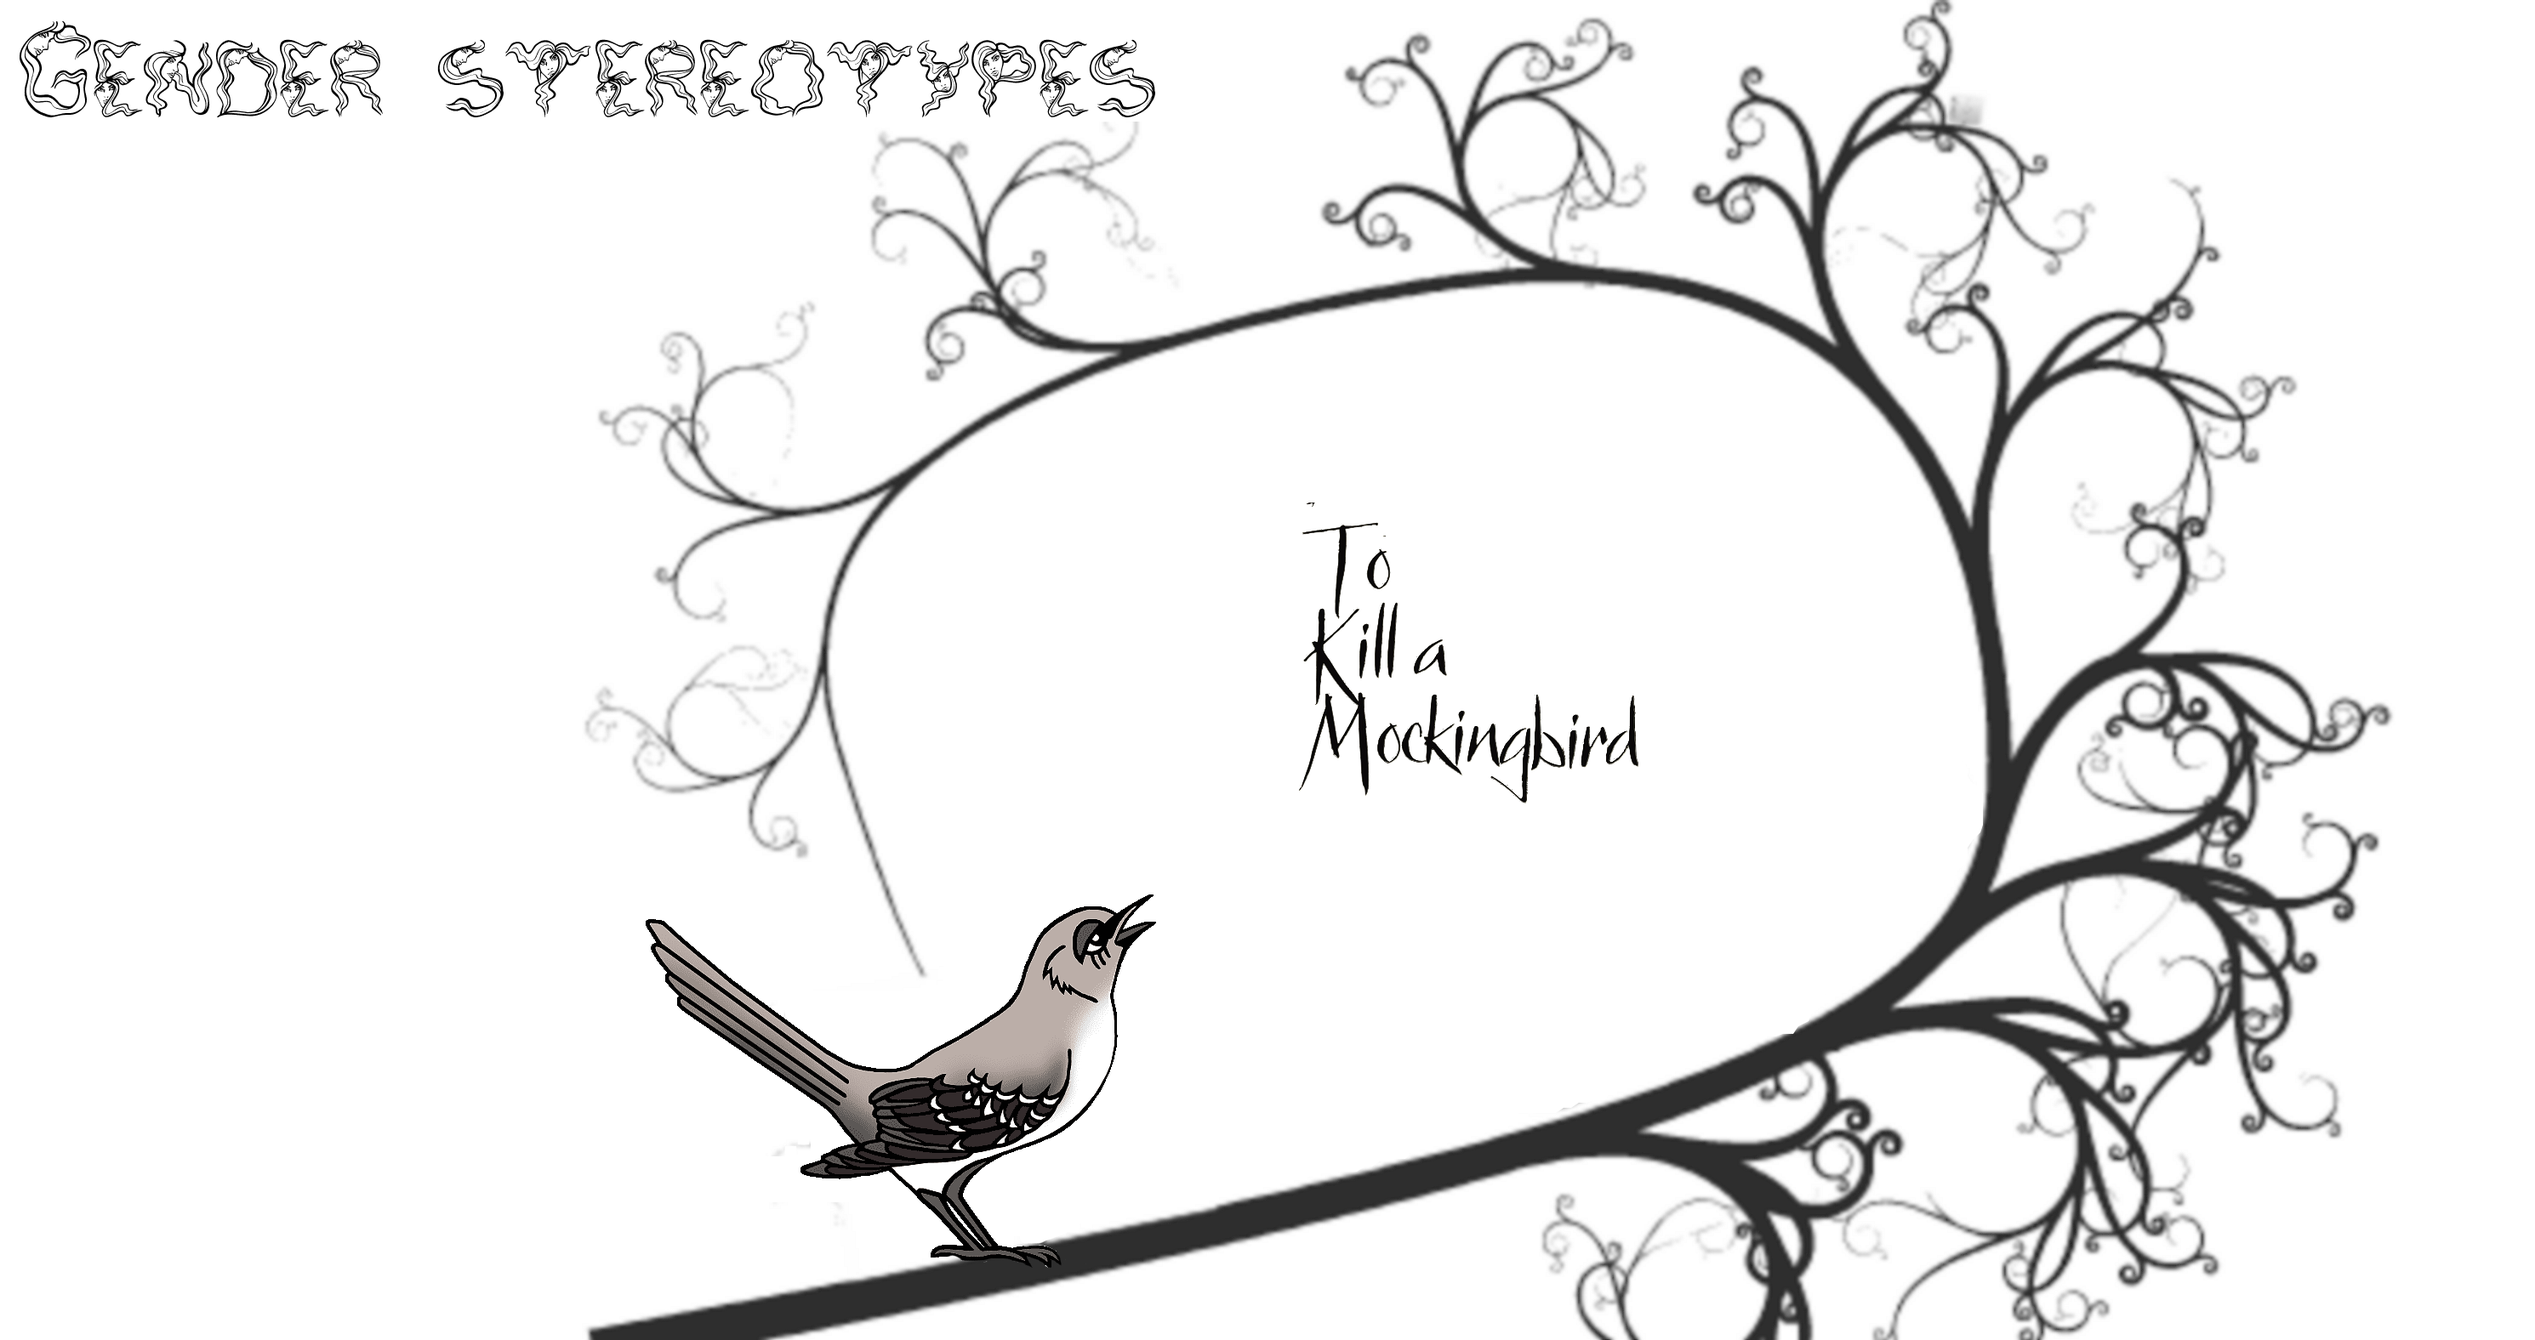
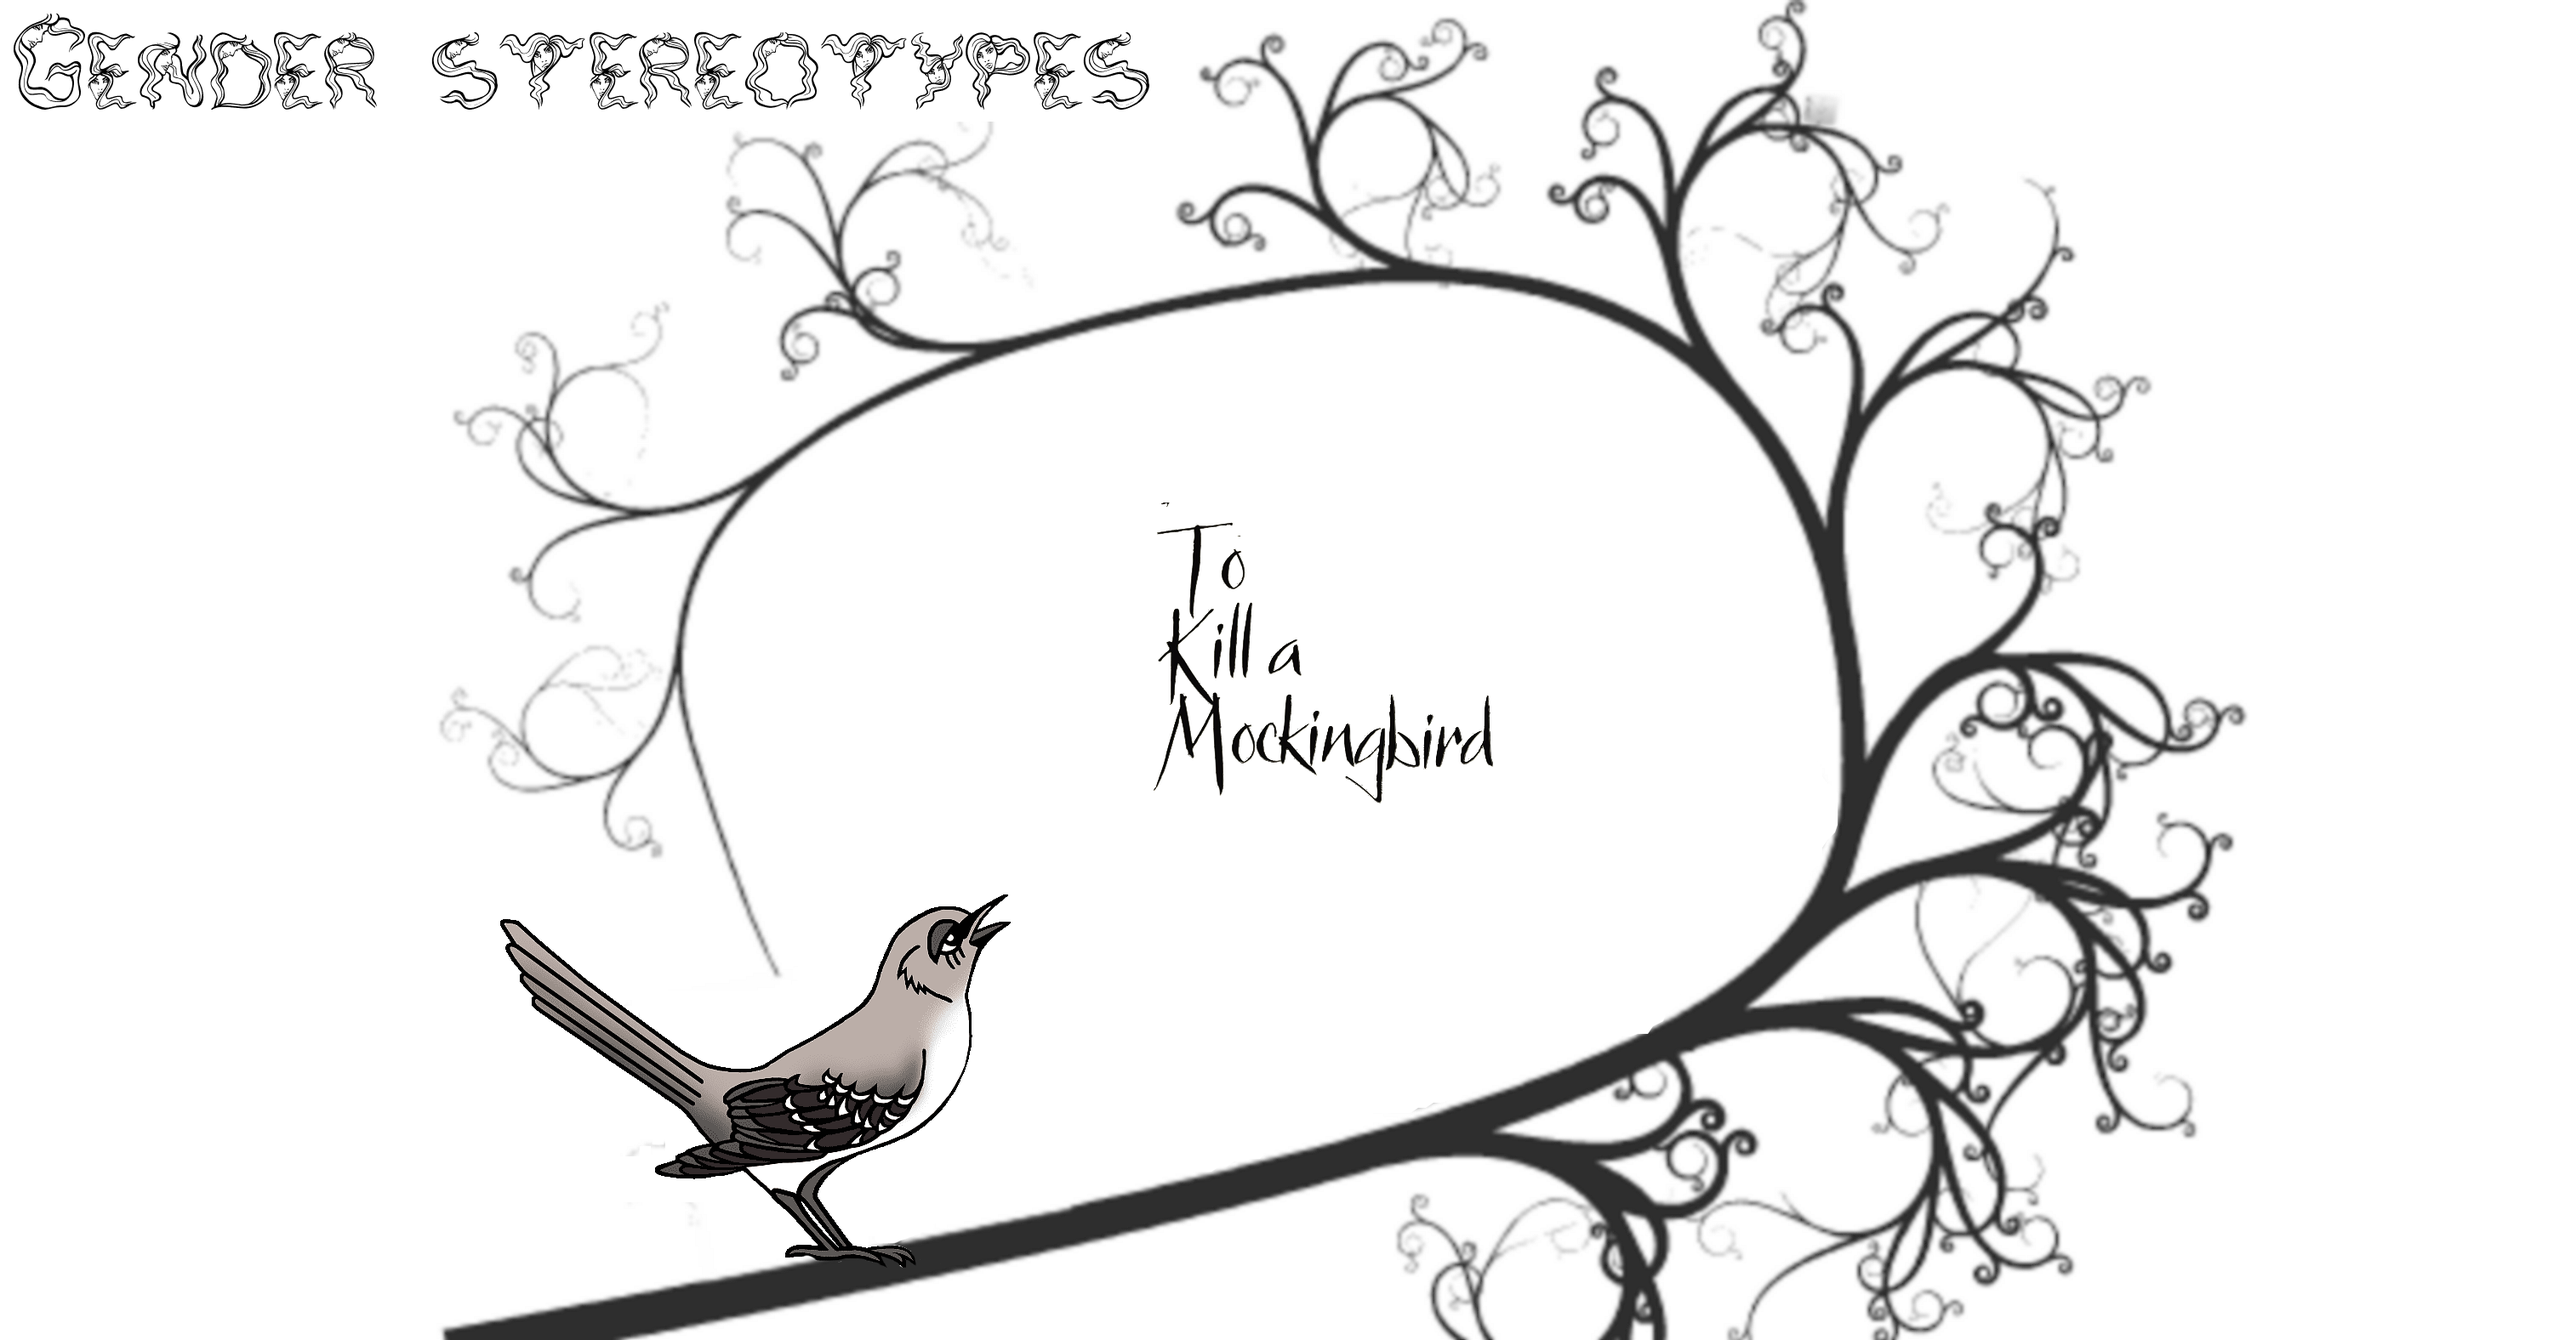
adjust width

diff --git a/examples/english_expo/css/presentation.css b/examples/english_expo/css/presentation.css
@@ -183,15 +183,21 @@ small {
 img.bg {
     position: fixed;
     opacity: 0;
-    height: 100%;
-    width: auto;
+    height: 100%; /*100%*/
+    /*max-height: 600px;*/ /*new*/
+    width: auto;/*auto*/
+    /*align: left;*/
     transition:  opacity 2s;
 }
 
 #applepie-image {
-    left: 0px;
-    bottom: 0px;
-    align: middle;
+    /*left: 0px;
+    bottom: 0px;*/
+    top: 0;
+    left: 0;
+    bottom:0;
+    right:0;
+    margin:auto;
 }
 
 body.impress-on-applepie #applepie-image,
